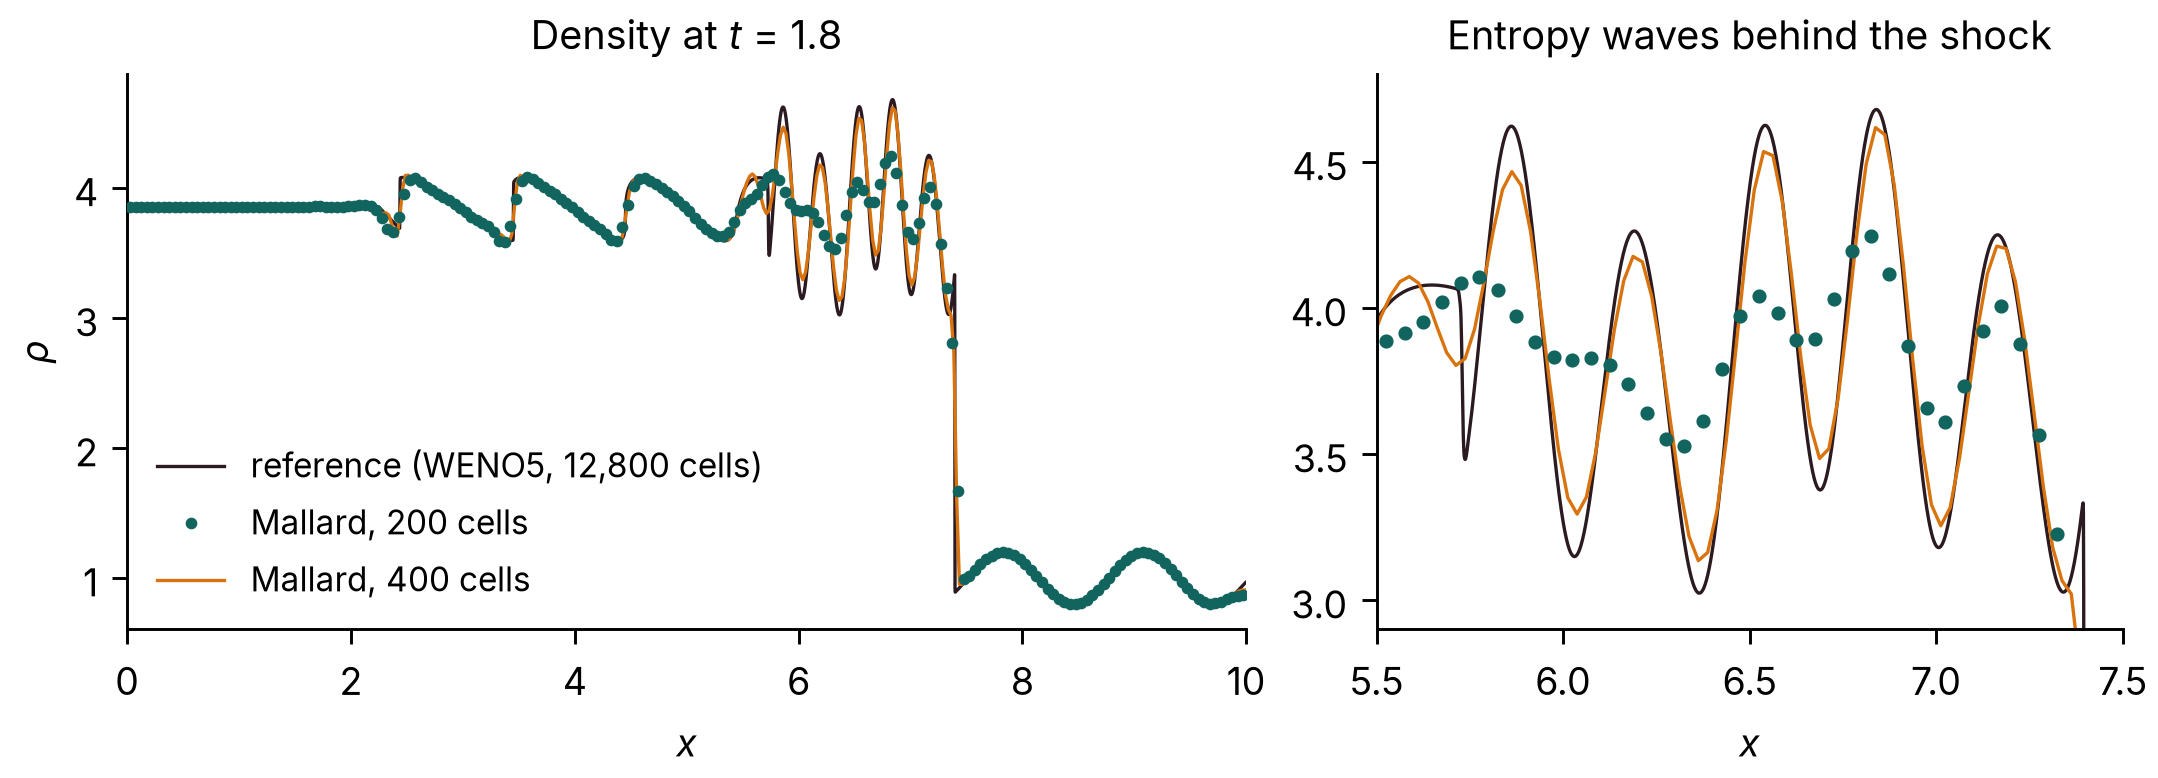
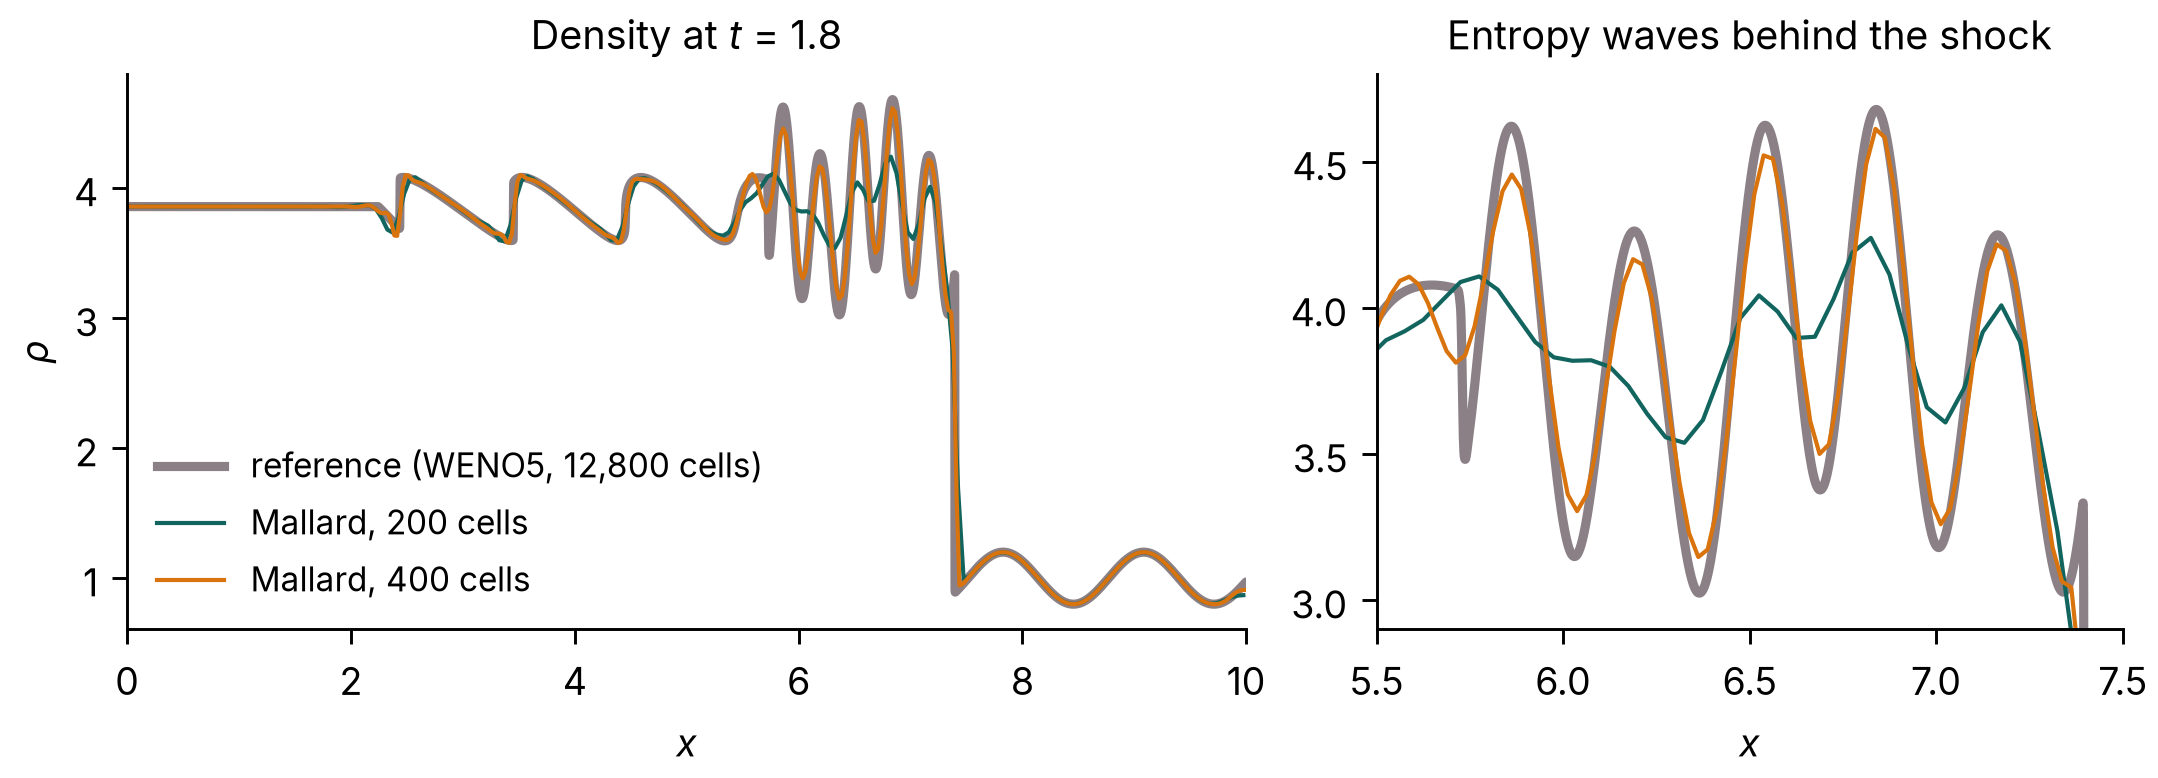
Validation figures: Sod legends above the panels; regenerate Sod, Sod 3D and Shu-Osher figures

diff --git a/validation/sod.py b/validation/sod.py
@@ -5,7 +5,7 @@ import numpy as np
 import matplotlib.pyplot as plt
 from scipy.optimize import brentq
 
-from common import FIG, GRAY, TEAL, FLAME, example, load, last_vtu, order, run, sub
+from common import FIG, PLUM, TEAL, FLAME, example, load, last_vtu, order, run, sub
 
 G = 1.4
 T_END = 0.2
@@ -81,9 +81,9 @@ def main():
     ex = exact(xe, T_END)
     fig, axs = plt.subplots(1, 3, figsize=(7.2, 2.4), constrained_layout=True)
     for ax, v, vm, e, lab in zip(axs, (rho, u, p), (rhom, um, pm), ex, (r"$\rho$", "$u$", "$p$")):
-        ax.plot(xe, e, color=GRAY, lw=2.2, label="exact")
-        ax.plot(xm, vm, color=FLAME, lw=1.0, label="MUSCL, Venkatakrishnan")
-        ax.plot(x, v, color=TEAL, lw=1.0, label="TENO-E, order 5")
+        ax.plot(xe, e, color=PLUM, lw=0.9, label="exact")
+        ax.plot(xm, vm, "-", color=FLAME, lw=0.8, label="MUSCL, Venkatakrishnan")
+        ax.plot(x, v, "o", ms=1.8, color=TEAL, label="TENO-E, order 5", zorder=3)
         ax.set_xlabel("$x$")
         ax.set_title(lab)
         ax.set_xlim(0, 1)

diff --git a/validation/sod_3d.py b/validation/sod_3d.py
@@ -13,7 +13,7 @@ from pathlib import Path
 import numpy as np
 import matplotlib.pyplot as plt
 
-from common import FIG, GRAY, RUNS, TEAL
+from common import FIG, PLUM, RUNS, TEAL
 from mallard.vtu import read_vtu_cells
 from sod import exact, exact_cell_avg
 
@@ -44,7 +44,7 @@ def main(mallard):
     xe = np.linspace(0, 1, 4001)
     fig, axs = plt.subplots(1, 3, figsize=(7.2, 2.4), constrained_layout=True)
     for ax, v, e, lab in zip(axs, (rho, U[:, 0], p), exact(xe, t), (r"$\rho$", "$u$", "$p$")):
-        ax.plot(xe, e, color=GRAY, lw=2.2, label="exact")
+        ax.plot(xe, e, color=PLUM, lw=0.9, label="exact")
         ax.plot(cx, v, "o", ms=1.6, color=TEAL, label="3D, all 3,200 cells", zorder=3)
         ax.set_xlabel("$x$")
         ax.set_title(lab)

diff --git a/content/validation.md b/content/validation.md
@@ -182,13 +182,13 @@ Discontinuous solutions against exact or converged references, in 1D strips, 2D 
 
 #### Sod shock tube {#sod-shock-tube}
 
-Mallard 0.5.0
+Table: Mallard 0.5.0. Figure: redrawn with [`fba4a82`](https://github.com/MatthewBonanni/mallard/commit/fba4a82) (0.9.1 + 90 commits)
 { .mallard-provenance }
 
 The Riemann problem of Sod (1978): (ρ, u, p) = (1, 0, 1) for x < 0.5 and (0.125, 0, 0.1) for x > 0.5, γ = 1.4, at t = 0.2. The [`sod`](docs/examples.md#sod) example: a strip of N × 4 square quadrilaterals with slip walls, HLLC flux, SSPRK3 at CFL 0.5. Run with Mallard 0.5.0.
 
 <figure class="mallard-figure" markdown>
-![Density, velocity and pressure of the Sod shock tube at t = 0.2 on 200 cells, TENO-E and MUSCL against the exact solution](validation/sod.png){ loading=lazy width=2158 height=718 }
+![Density, velocity and pressure of the Sod shock tube at t = 0.2 on 200 cells, TENO-E and MUSCL against the exact solution](validation/sod.png){ loading=lazy width=2158 height=714 }
 <figcaption>Sod shock tube at t = 0.2 on 200 cells. Fifth-order TENO-E (dots) and MUSCL with the Venkatakrishnan limiter (line) against the exact solution.</figcaption>
 </figure>
 
@@ -207,14 +207,14 @@ The errors are taken over all cells of the strip, whose four rows agree to round
 
 ##### Sod shock tube in 3D {#sod-3d}
 
-Text: Mallard 0.3.0. Figure and table: rerun with Mallard 0.7.0
+Text: Mallard 0.3.0. Table: rerun with Mallard 0.7.0. Figure: redrawn with [`fba4a82`](https://github.com/MatthewBonanni/mallard/commit/fba4a82) (0.9.1 + 90 commits), the same numbers
 { .mallard-provenance }
 
 The Sod problem of the [Sod shock tube](#sod-shock-tube) section on a 200 × 4 × 4 box of hexahedra with slip walls on all six faces, MUSCL with the Venkatakrishnan limiter, HLLC, SSPRK3. The solution stays one-dimensional to round-off (transverse velocities below 10<sup>−13</sup>), and its L<sub>1</sub> density error against the exact solution, 2.653 × 10<sup>−3</sup>, equals that of the same scheme on 200 × 4 quadrilaterals in 2D to all four digits.
 
 
 <figure class="mallard-figure" markdown>
-![Density, velocity and pressure of every cell of the 3D Sod shock tube against the exact solution](validation/sod_3d.png){ loading=lazy width=2158 height=718 }
+![Density, velocity and pressure of every cell of the 3D Sod shock tube against the exact solution](validation/sod_3d.png){ loading=lazy width=2158 height=714 }
 <figcaption>Every one of the 200 × 4 × 4 cells at t = 0.2 (MUSCL with the Venkatakrishnan limiter, HLLC), against the exact solution; Mallard 0.7.0.</figcaption>
 </figure>
 
@@ -228,7 +228,7 @@ The 0.7.0 rerun uses the `sod` example's settings in 0.7.0 (CFL 1.0 in that rele
 
 #### Shu–Osher problem {#shu-osher-problem}
 
-Mallard 0.5.0
+Table: Mallard 0.5.0. Figures: redrawn with [`fba4a82`](https://github.com/MatthewBonanni/mallard/commit/fba4a82) (0.9.1 + 90 commits)
 { .mallard-provenance }
 
 A Mach 3 shock running into a sinusoidal density field (Shu & Osher 1989), on [0, 10] (the usual [−5, 5] shifted by 5), t = 1.8, with the [`shu_osher`](docs/examples.md#shu-osher) example: fifth-order TENO-E and the RHLL flux on N × 4 square quadrilaterals, run with Mallard 0.5.0. There is no exact solution; the reference is a one-dimensional fifth-order WENO-JS solution (characteristic, Lax–Friedrichs flux splitting, SSPRK3) on 12,800 cells, which differs from the same code on 6,400 cells by 0.007 in L<sub>1</sub>.
